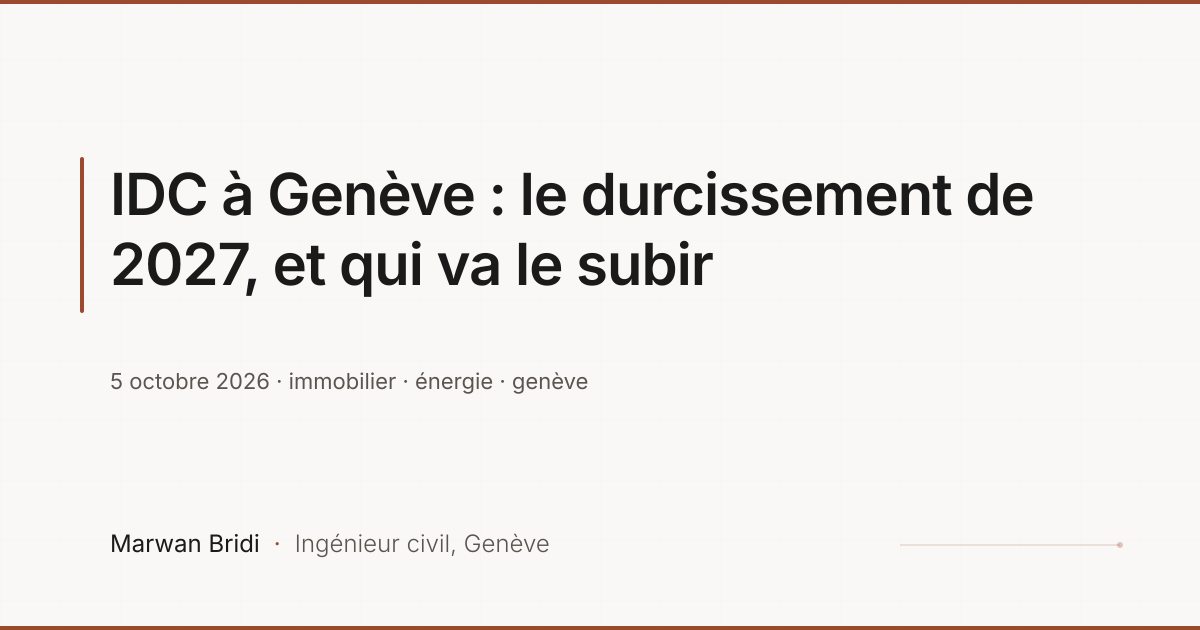
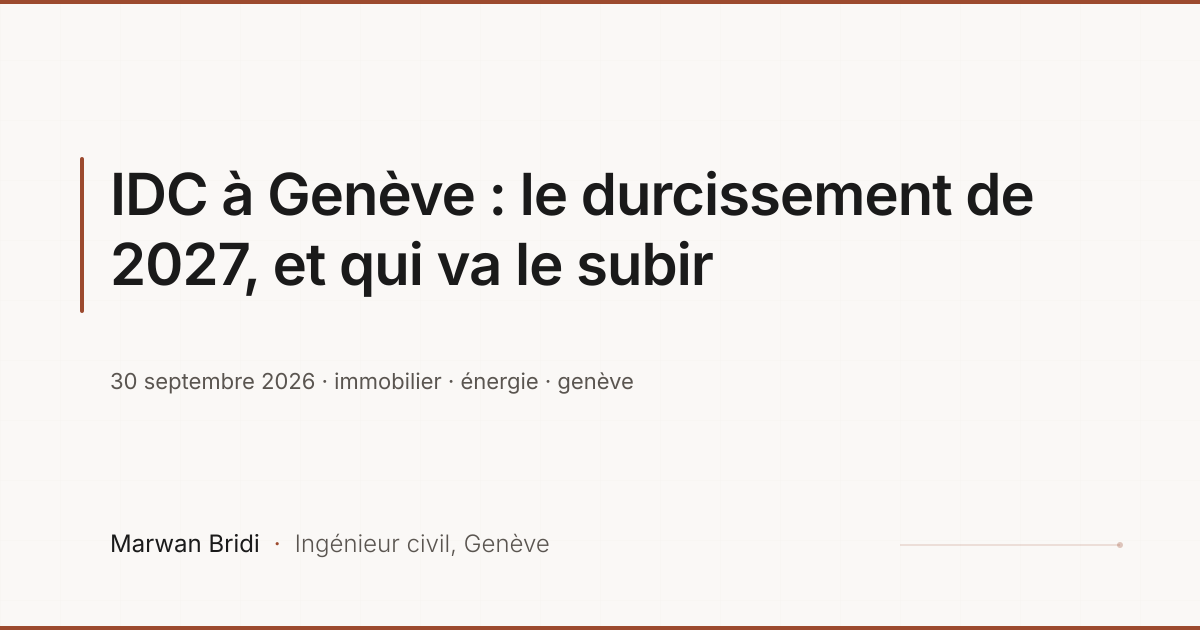
fix(essais): le double espace apres la date, et l'essai IDC date de son travail
DOUBLE ESPACE, repere par Marwan a l'oeil. Introduit hier avec dateModified :
quand `wasUpdated` est faux, l'expression conditionnelle ne rend rien mais laisse
les espaces d'indentation qui l'entouraient. Resultat « 6 octobre 2026␣␣· tags »
sur tout essai non revise. Les trois expressions sont desormais accolees. Verifie
dans les DEUX cas — essai sans revision et essai avec — et sur les 11 essais :
zero double espace.

DATE DE L'ESSAI IDC : 05.10 → 30.09.2026, avec updated au 06.10.

Le travail a reellement ete fait les 29-30 septembre : extraction de la couche
OCEN le 29, seuils verifies a la source le 30. L'essai est donc date de son
travail et non de son upload — convention courante en publication, et assumee
comme telle.

Ce qui rend ce decalage HONNETE, la ou un antidatage a septembre 2025 ne l'etait
pas : les deux mentions du « 5 octobre 2026 » dans le corps sont des dates de
verification (champ d'application LEn art. 15C, et constat que la modification du
reglement n'est pas faite). Elles tombent entre publication et mise a jour, ce
qui est exact — elles SONT arrivees par une revision. La page affiche les deux
dates, le schema aussi : rien n'est masque.

Carte de partage regeneree, elle porte la date.

Claude-Session: https://claude.ai/code/session_017Uo6QTSUip3g92cLc7w2gZ

Changed region(s): [[0.0925, 0.573, 0.5242, 0.6333]]

diff --git a/src/content/thinking/idc-geneve-durcissement-2027.md b/src/content/thinking/idc-geneve-durcissement-2027.md
@@ -1,6 +1,7 @@
 ---
 title: "IDC à Genève : le durcissement de 2027, et qui va le subir"
-date: 2026-10-05
+date: 2026-09-30
+updated: 2026-10-06
 description: "Le REn abaisse le seuil d'IDC en 2027 puis en 2031. Extraction de la couche OCEN sur 49'734 bâtiments : 1,5% du parc mesuré est aujourd'hui en dépassement significatif, 4,9% le seront en 2027, 12,9% en 2031 — et ce sont d'abord les petits bâtiments, pas le locatif institutionnel."
 tags: [immobilier, énergie, genève, réglementation, données]
 cartouche:
